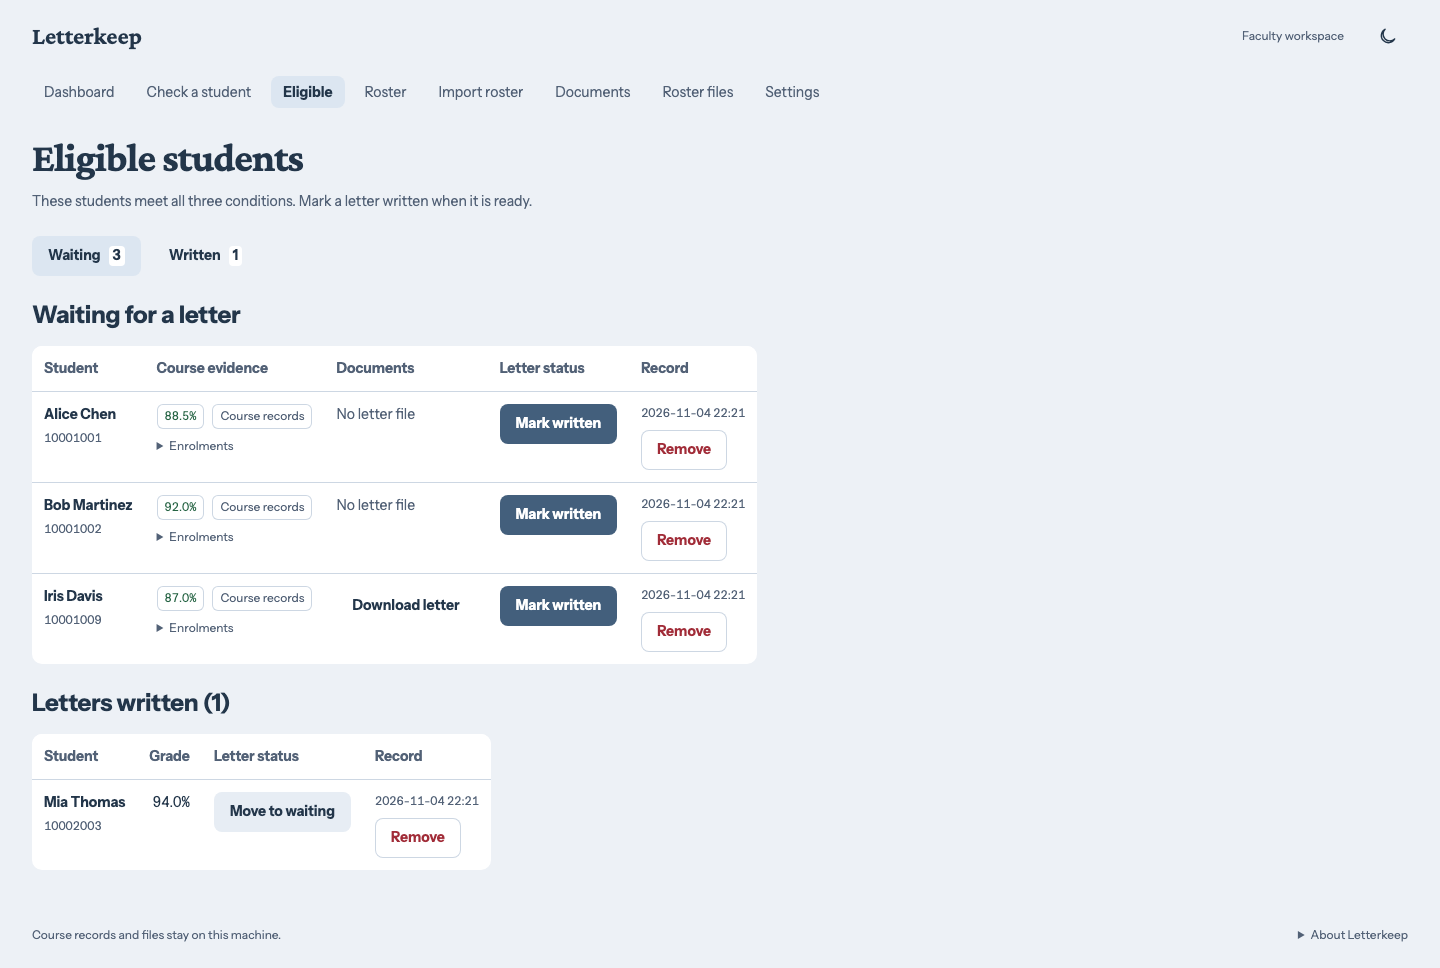
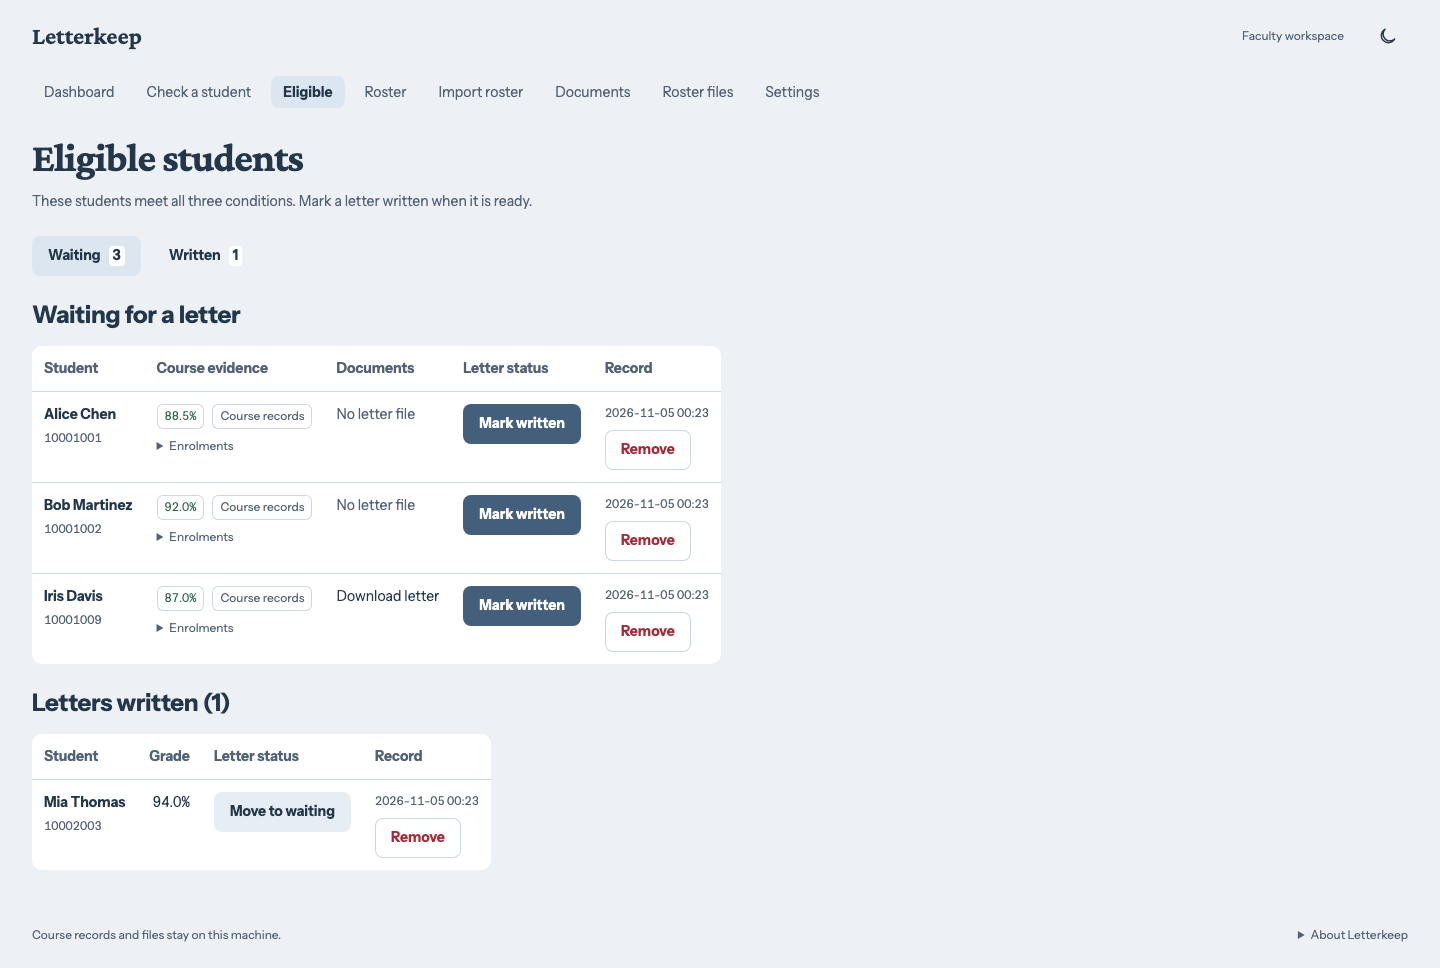
Stack phone table rows into complete Letterkeep records
Show each row as a labelled card below 700 pixels with every action in
view. Match the Documents heading to Download and align letter downloads
with empty file values on desktop. Refresh the README captures.

Changed region(s): [[0.25, 0.3719, 0.5, 0.6508], [0.4375, 0.6508, 0.5, 0.6818]]

diff --git a/app/templates/prof_eligible.html b/app/templates/prof_eligible.html
@@ -16,7 +16,7 @@
 <h2>Waiting for a letter</h2>
 
 {% if pending %}
-<div class="tablewrap" tabindex="0" role="region" aria-label="Students waiting for a letter, scrolls sideways">
+<div class="tablewrap" tabindex="0" role="region" aria-label="Students waiting for a letter">
   <table class="data">
     <thead>
       <tr><th>Student</th><th>Course evidence</th><th>Documents</th><th>Letter status</th><th>Record</th></tr>
@@ -29,7 +29,7 @@
           <div class="evidence-chips"><span class="tag yes">{{ '%.1f' % r.overall_grade_pct ~ '%' if r.overall_grade_pct is not none else 'No grade' }}</span><span class="tag" title="{{ r.grade_source or '' }}">{{ {'database':'Course records','manual':'Entered grade','transcript':'Transcript'}.get(r.grade_source, r.grade_source or 'Unknown source') }}</span></div>
           <details class="enrolment-details"><summary>Enrolments</summary><p>{{ (r.eligible_identifiers or 'No enrolments') | replace(';', ' · ') }}</p></details>
         </td>
-        <td>{% if r.letter_file %}<a class="btn btn-ghost" href="{{ url_for('prof_download_letter', token=token, filename=r.letter_file) }}">Download letter</a>{% else %}<span class="muted">No letter file</span>{% endif %}</td>
+        <td class="document-cell">{% if r.letter_file %}<a class="btn btn-ghost document-link" href="{{ url_for('prof_download_letter', token=token, filename=r.letter_file) }}">Download letter</a>{% else %}<span class="muted">No letter file</span>{% endif %}</td>
         <td><form method="POST" action="{{ url_for('prof_toggle_done', token=token, student_number=r.student_number) }}">
             <button class="btn btn-primary" type="submit" aria-label="Mark the letter for {{ r.student_name }} as written">Mark written</button>
         </form></td>
@@ -53,7 +53,7 @@
 <section id="written" class="letter-folder">
 <h2>Letters written ({{ done | length }})</h2>
 {% if done %}
-  <div class="tablewrap" tabindex="0" role="region" aria-label="Letters already written, scrolls sideways" style="margin-top:var(--space-4)">
+  <div class="tablewrap" tabindex="0" role="region" aria-label="Letters already written" style="margin-top:var(--space-4)">
     <table class="data">
       <thead><tr><th>Student</th><th class="num">Grade</th><th>Letter status</th><th>Record</th></tr></thead>
       <tbody>

diff --git a/app/static/letterkeep.css b/app/static/letterkeep.css
@@ -123,9 +123,22 @@ table.data .num { text-align: right; font-variant-numeric: tabular-nums; }
 .app-footer .inner { display: grid; gap: 16px; margin-top: 16px; font-size: 14px; }
 .app-footer dt { font-weight: 700; color: var(--text); margin-bottom: 4px; }
 .app-footer dd { margin: 0; }
+.data .cell-label { display: none; }
+.document-cell .document-link { min-height: 0; padding: 0; font-weight: 400; line-height: 1.5; }
 @media(min-width:701px) { .app-navigation > summary { display: none; } }
 @media(max-width:1000px) { .dashboard-layout { grid-template-columns: minmax(0,1.8fr) minmax(220px,1fr); gap: 20px; } }
 @media(max-width:700px) {
+  .tablewrap { overflow: visible; width: 100%; background: transparent; border-radius: 0; }
+  table.data,table.data tbody { display: block; width: 100%; }
+  table.data .record-head { position: absolute; width: 1px; height: 1px; padding: 0; overflow: hidden; clip-path: inset(50%); white-space: nowrap; }
+  table.data tr { display: grid; grid-template-columns: repeat(2,minmax(0,1fr)); gap: 12px; padding: 16px; background: var(--surface); border-radius: 10px; margin-bottom: 12px; }
+  table.data td { display: block; min-width: 0; max-width: none; padding: 0; border: 0; white-space: normal !important; overflow-wrap: anywhere; text-align: left !important; }
+  table.data td:first-child,table.data td[data-label="Source file"],table.data .evidence-cell { grid-column: 1 / -1; }
+  table.data td:first-child { font-size: 16px; font-weight: 700; }
+  .data .cell-label { display: block; color: var(--muted); font-size: 12px; font-weight: 400; line-height: 1.5; margin: 0 0 4px; }
+  .data .student-cell > .cell-label { display: none; }
+  .data .btn { max-width: 100%; }
+  .document-cell .document-link { min-height: 40px; }
   .topbar { padding: 12px 16px; gap: 12px; }
   .workspace-label { display: none; }
   .topbar #theme { margin-left: auto; }

diff --git a/app/templates/base.html b/app/templates/base.html
@@ -63,6 +63,22 @@
 <script src="{{ url_for('static', filename='theme-control.js') }}"></script>
 <script>
   Appearance.bindToggle(document.getElementById('theme'));
+  document.querySelectorAll('table.data').forEach(function (table) {
+    var headings = Array.from(table.tHead.rows[0].cells, function (cell) { return cell.textContent.trim(); });
+    table.tHead.classList.add('record-head');
+    Array.from(table.tBodies).forEach(function (body) {
+      Array.from(body.rows).forEach(function (row) {
+        Array.from(row.cells).forEach(function (cell, index) {
+          var label = document.createElement('span');
+          label.className = 'cell-label';
+          label.setAttribute('aria-hidden', 'true');
+          label.textContent = headings[index];
+          cell.dataset.label = headings[index];
+          cell.prepend(label);
+        });
+      });
+    });
+  });
   var navigation = document.querySelector('.app-navigation');
   if (navigation) {
     var phone = matchMedia('(max-width: 700px)');

diff --git a/app/templates/prof_documents.html b/app/templates/prof_documents.html
@@ -14,9 +14,9 @@
 <section>
   <h2>{{ title }} ({{ files | length }})</h2>
   {% if files %}
-  <div class="tablewrap" tabindex="0" role="region" aria-label="{{ title }}, scrolls sideways" style="margin-top:var(--space-4)">
+  <div class="tablewrap" tabindex="0" role="region" aria-label="{{ title }}" style="margin-top:var(--space-4)">
     <table class="data">
-      <thead><tr><th>File</th><th class="num">Size</th><th>Uploaded</th><th>Open</th><th>Delete</th></tr></thead>
+      <thead><tr><th>File</th><th class="num">Size</th><th>Uploaded</th><th>Download</th><th>Delete</th></tr></thead>
       <tbody>
         {% for f in files %}
         <tr>

diff --git a/app/templates/prof_dashboard.html b/app/templates/prof_dashboard.html
@@ -54,7 +54,7 @@
 <section>
   <h2>Recently checked eligible</h2>
   {% if recent %}
-  <div class="tablewrap" tabindex="0" role="region" aria-label="Recently checked eligible students, scrolls sideways" style="margin-top:var(--space-4)">
+  <div class="tablewrap" tabindex="0" role="region" aria-label="Recently checked eligible students" style="margin-top:var(--space-4)">
     <table class="data">
       <thead><tr><th>Student #</th><th>Name</th><th class="num">Grade</th><th>Checked</th></tr></thead>
       <tbody>

diff --git a/app/templates/prof_import.html b/app/templates/prof_import.html
@@ -36,7 +36,7 @@
 {% if results %}
 <section>
   <h2>What was imported</h2>
-  <div class="tablewrap" tabindex="0" role="region" aria-label="Import results, scrolls sideways" style="margin-top:var(--space-4)">
+  <div class="tablewrap" tabindex="0" role="region" aria-label="Import results" style="margin-top:var(--space-4)">
     <table class="data">
       <thead><tr><th>File</th><th>Course</th><th class="num">Rows</th><th class="num">New</th><th>Result</th></tr></thead>
       <tbody>

diff --git a/app/templates/prof_files.html b/app/templates/prof_files.html
@@ -9,7 +9,7 @@
 </div>
 
 {% if disk_files %}
-<div class="tablewrap" tabindex="0" role="region" aria-label="Roster files, scrolls sideways">
+<div class="tablewrap" tabindex="0" role="region" aria-label="Roster files">
   <table class="data">
     <thead><tr><th>File</th><th class="num">Size</th><th>Uploaded</th><th class="num">Enrolments</th>
                <th class="num">Students</th><th>Last import</th><th>Delete</th></tr></thead>

diff --git a/app/templates/prof_roster.html b/app/templates/prof_roster.html
@@ -10,7 +10,7 @@
 </div>
 
 {% if rows %}
-<div class="tablewrap" tabindex="0" role="region" aria-label="Roster, scrolls sideways">
+<div class="tablewrap" tabindex="0" role="region" aria-label="Roster">
   <table class="data">
     <thead>
       <tr><th>Student #</th><th>Name</th><th>Course</th><th>Section</th><th>Year</th><th>Term</th>
